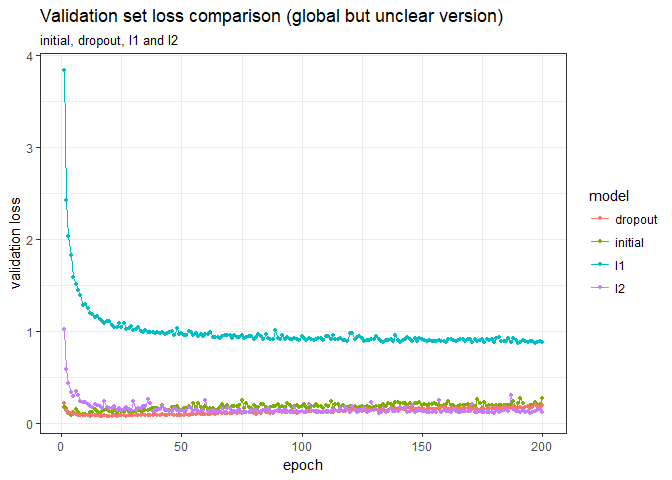
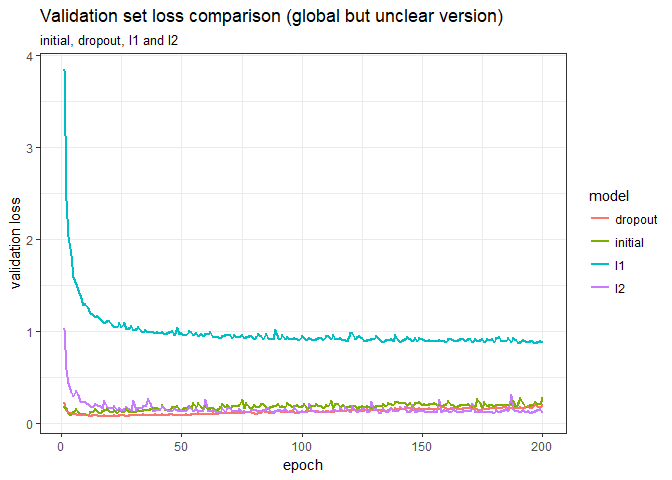
final

diff --git a/ProblemSets/PS3/Part_I.md b/ProblemSets/PS3/Part_I.md
@@ -230,8 +230,8 @@ comparison <- data.frame(cbind(history1$metrics$val_loss,
   gather(1:4, key = model, value = value)
   
 ggplot(comparison, aes(X5, value, color = model)) +
-  geom_line() +
-  geom_point(size = 1) +
+  geom_line(size = 1) +
+  geom_point(size = 0.3) +
   theme_bw() +
   labs(title = "Validation set loss comparison (global but unclear version)",
        subtitle = "initial, dropout, l1 and l2",
